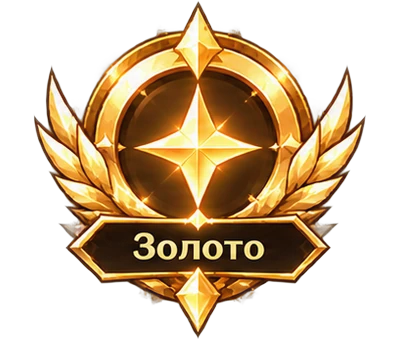
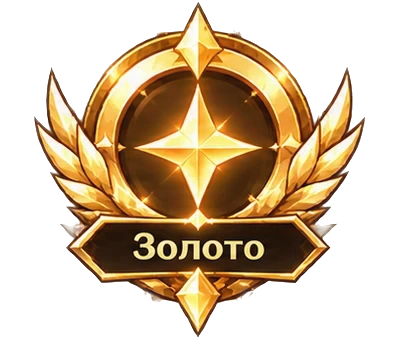
League emblems: remove coloured glow animation, trim baked halo
Claude-Session: https://claude.ai/code/session_01P9LNY4YK5SysrNo5tNmMaK

diff --git a/src/app/cards-campaign.css b/src/app/cards-campaign.css
@@ -2367,3 +2367,8 @@ html[data-eco="on"] .cv-fglow, html[data-eco="on"] .cv-fglint { animation: none;
 .ar-result .cg-hint { font-size: 14px; color: #bcd0f5; }
 @media (max-width: 860px) { .ar-hud { grid-template-columns: 1fr 1fr; } .ar-round { grid-column: 1 / -1; grid-row: 1; justify-self: center; } .ar-vs { width: 68px; height: 68px; } .ar-vs .ico { width: 22px; height: 22px; } }
 @media (prefers-reduced-motion: reduce) { .ar-vs { animation: none; } }
+
+/* Эмблемы лиг: без цветного мерцания */
+.cg .bt-lg li.cur img { animation: none; filter: drop-shadow(0 6px 10px rgba(0, 0, 20, .55)); }
+.cg .bt-lg li.done img { filter: drop-shadow(0 6px 10px rgba(0, 0, 20, .45)); }
+.cg .bt-lg li.cur i, .cg .bt-lg li i { animation: none; }
